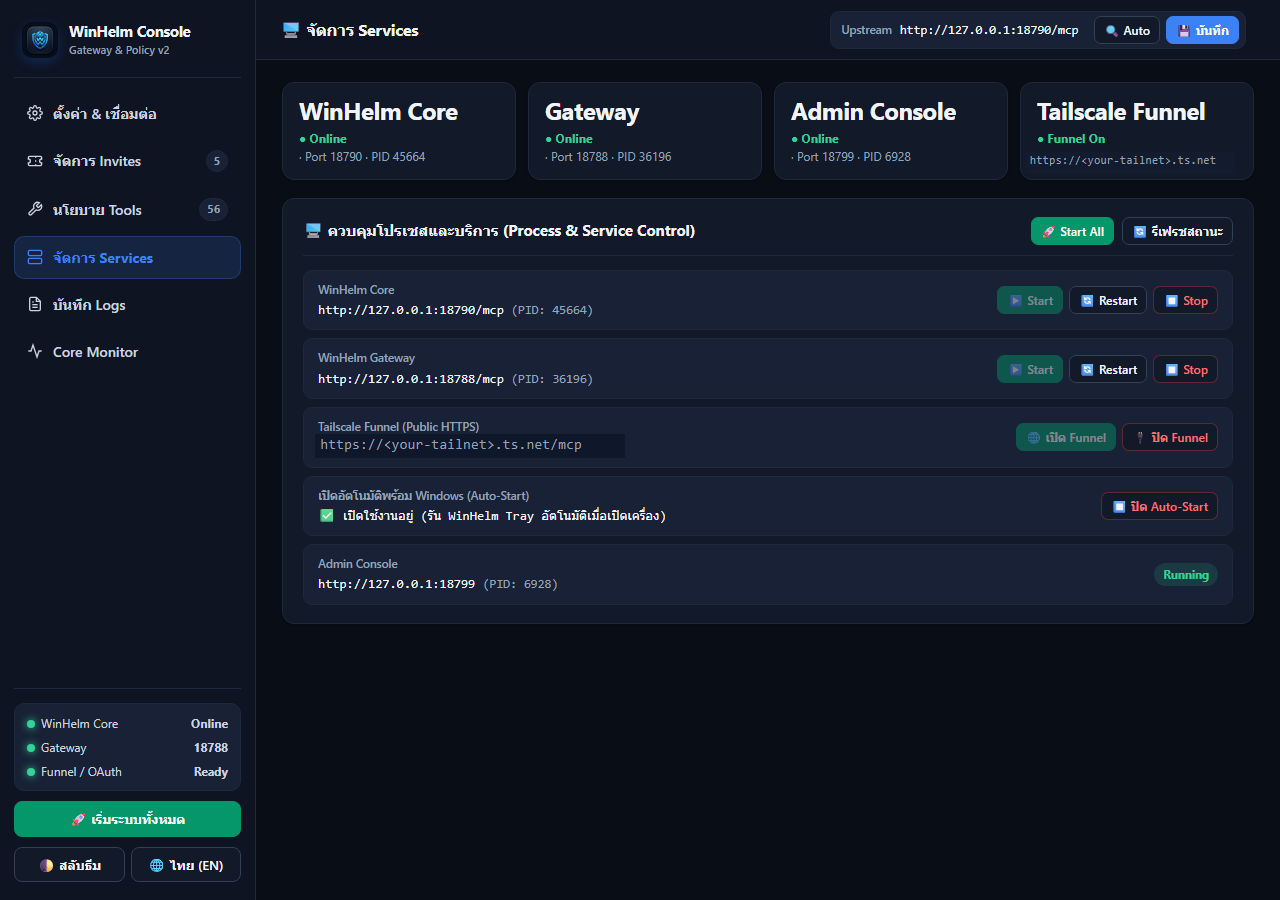
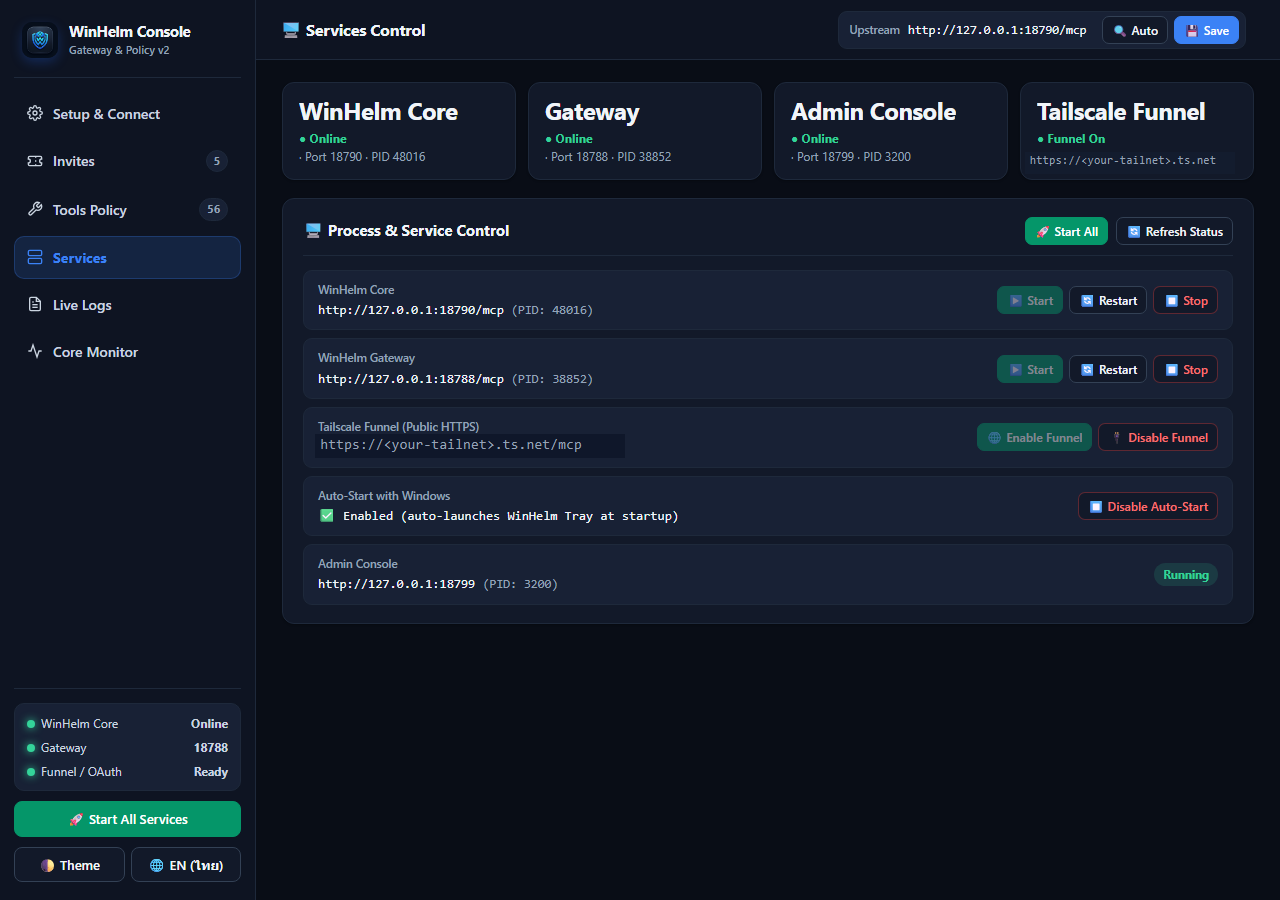
docs: make English default README with EN screenshots and add README.th.md

diff --git a/admin/index.html b/admin/index.html
@@ -2009,7 +2009,8 @@ const EN_TEXT = {
   'ap.approve': '✔ Approve Now'
 };
 
-let LANG = localStorage.getItem('winhelm_lang') === 'en' ? 'en' : 'th';
+const _qLang = new URLSearchParams(location.search).get('lang');
+let LANG = (_qLang === 'en' || _qLang === 'th') ? _qLang : (localStorage.getItem('winhelm_lang') === 'en' ? 'en' : 'th');
 let activeTabId = 'tab-setup';
 const t = (th, en) => (LANG === 'en' ? en : th);
 

diff --git a/README.md b/README.md
@@ -1,125 +1,126 @@
 # WinHelm Unified Desktop Console & Multi-Platform Ingress Gateway
 
-ศูนย์ควบคุมเดสก์ท็อป (**Control Console**), ระบบ **System Tray**, และ **OAuth/MCP Ingress Gateway** สำหรับ **WinHelm MCP Core** (รองรับ **Google Gemini**, **Anthropic Claude**, และ **OpenAI ChatGPT**)
+> 🌐 **Language:** **English** | [🇹🇭 ภาษาไทย](README.th.md)
 
-โปรเจกต์นี้ออกแบบให้แยกส่วนจากแกนหลัก (`winhelm-mcp`) อย่างชัดเจน โดยใช้ Node.js Standard Library 100% (ไร้ external npm dependencies) ทำงานร่วมกับ WinHelm Core ผ่าน Local HTTP/Bearer Token และ Windows DPAPI
+A standalone **Desktop Control Console**, **System Tray** app, and **OAuth 2.1 / MCP Ingress Gateway** for **WinHelm MCP Core** — supporting **Google Gemini**, **Anthropic Claude**, and **OpenAI ChatGPT**.
+
+Built with **100% Node.js Standard Library** (zero external npm dependencies), communicating with WinHelm Core over local HTTP + Bearer Token and securing credentials with Windows DPAPI.
 
 ---
 
-## 🌟 ฟีเจอร์หลัก (Key Features)
+## 🌟 Key Features
 
-1. **⚙ ตั้งค่า & เชื่อมต่อ (Setup & OAuth):**
-   - ซิงค์โดเมนสาธารณะจาก **Tailscale Funnel** อัตโนมัติ (`⚡ ซิงค์ Tailscale`)
-   - สร้างและจัดการ **OAuth Static Clients** (`Client ID` / `Client Secret` เข้ารหัสด้วย Windows DPAPI)
-   - จัดการ **WinHelm Core Bearer Token** (อ่านอัตโนมัติจาก `~/.winhelm/auth-token`, ปุ่ม `⚡ ซิงค์อัตโนมัติ`, หรือกรอก Token เองเมื่อรัน Core ด้วย `--auth`)
-   - **Health Checklist** ตรวจความพร้อมระบบ 8 จุดแบบเรียลไทม์
+1. **⚙ Setup & Connection (`#setup`):**
+   - One-click **Tailscale Funnel** public domain sync (`⚡ Sync Tailscale`).
+   - Create and manage **OAuth Static Clients** (`Client ID` / `Client Secret` encrypted via Windows DPAPI).
+   - Manage **WinHelm Core Bearer Token** (auto-reads `~/.winhelm/auth-token`, `⚡ Auto Sync`, or manual entry when running Core with `--auth`).
+   - Real-time 8-point **System Readiness** checklist.
 
-2. **🎫 จัดการ Invites (`#invites`):**
-   - สร้าง Invite Code พร้อมกำหนดโควตา (Quota) และคัดลอกลง Clipboard ในคลิกเดียว
-   - แก้ไขโควตา, รีเซ็ตการใช้งาน, ปลดการจองค้าง (`Release Stale`), ยกเลิก (`Revoke`), หรือลบถาวร
+2. **🎫 Invites Manager (`#invites`):**
+   - Generate Invite Codes with configurable quotas and one-click clipboard copy.
+   - Edit quotas, reset usage, release stale reservations (`Release Stale`), revoke, or permanently delete.
 
-3. **🛠 นโยบาย Tools — Schema v2 (`#tools`):**
-   - ควบคุมสิทธิ์ **56 Canonical Tools** ของ WinHelm แบบเจาะจงราย Tool (`🟢 Auto` / `🟡 Ask` / `🔴 Off`)
-   - ปุ่ม Quick Presets: `Power (Auto ทั้งหมด)`, `Balanced (Ask คำสั่งอันตราย)`, `Safe (Read-only)`
-   - ตั้งค่า **Terminal Mode**, **Approval Mode** (`smart` / `manual` / `trusted`), และจัดการ **Approved Folders** ได้จากหน้าเดียว
+3. **🛠 Tools Policy — Schema v2 (`#tools`):**
+   - Per-tool access control across **56 Canonical WinHelm Tools** (`🟢 Auto` / `🟡 Ask` / `🔴 Off`).
+   - Quick Presets: `Power (All Auto)`, `Balanced (Ask Risky)`, `Safe (Read-only)`.
+   - Configure **Terminal Mode**, **Approval Mode** (`smart` / `manual` / `trusted`), and **Approved Folders** in one place.
 
-4. **🖥 จัดการ Services & 📜 บันทึก Logs (`#services`, `#logs`):**
-   - สั่ง `Start` / `Stop` / `Restart` แยกสำหรับ **WinHelm Core (`18790`)** และ **Gateway (`18788`)**
-   - หน้า **บันทึก Logs** เต็มจอ (แนวบน-ล่าง `stdout` 2/3 และ `stderr` 1/3) พร้อมล้าง ANSI color codes และ Auto-Refresh
+4. **🖥 Services Control & 📜 Live Logs (`#services`, `#logs`):**
+   - Start / Stop / Restart **WinHelm Core (`18790`)** and **Gateway (`18788`)** independently, plus toggle Tailscale Funnel and Windows Auto-Start.
+   - Full-view **Live Logs** (`stdout` & `stderr`) with ANSI color stripping and auto-refresh.
 
 5. **📊 Core Monitor & Global Approval Popup (`#monitor`):**
-   - แสดง **CPU Load**, **RAM**, **GPU VRAM/Temp**, **Uptime/Sessions**, **Disk Drives (Compact Grid)**, และ **Activity Logs** ของ Core
-   - **Approval Queue + Global Popup:** เมื่อมีคำสั่งติดสิทธิ์ `ask` ระบบจะเด้ง Popup แจ้งเตือนมุมขวาบนทันทีไม่ว่าอยู่แท็บไหน กด `✔ อนุมัติ` หรือ `✕ ปฏิเสธ` ได้จาก Console โดยตรง
+   - Live **CPU Load**, **RAM**, **GPU VRAM/Temp**, **Uptime/Sessions**, **Disk Drives**, and Core **Activity Logs**.
+   - **Approval Queue + Global Popup:** Whenever an `ask`-policy tool is invoked, a notification popup appears at the top-right across all tabs so you can `✔ Approve` or `✕ Deny` immediately.
 
-6. **⚡ Silent System Tray (`WinHelm Tray.lnk`):**
-   - เปิดแอป System Tray ได้โดย **ไม่มีหน้าต่าง PowerShell ค้าง** (ผ่าน `wscript.exe` + `tray\launch-tray.vbs`)
-   - ไอคอนโลโก้ WinHelm พร้อมจุดสถานะที่มุมขวาล่าง (เทา = Stopped, น้ำเงิน = Local, แดง = Public)
-   - รองรับปุ่มสลับภาษา **ไทย / EN** และธีม **สว่าง / มืด** ในหน้า Console
+6. **⚡ Silent System Tray (`WinHelm Tray.lnk`) & Bilingual UI (`EN / TH`):**
+   - Launches cleanly into the Windows System Tray with **no persistent PowerShell window** (via `wscript.exe` + `tray\launch-tray.vbs`).
+   - Built-in **English / Thai (`EN / ไทย`)** toggle and **Light / Dark** theme switcher.
 
 ---
 
-## 📸 ภาพหน้าจอ (Screenshots)
+## 📸 Screenshots
 
-### 1. ตั้งค่า & เชื่อมต่อ (Setup & OAuth Connection)
+### 1. Setup & OAuth Connection
 ![Setup and Connection](docs/picture/set_conn.png)
 
-### 2. จัดการ Invites (Invites Manager)
+### 2. Invites Manager
 ![Invites Manager](docs/picture/invite.png)
 
-### 3. นโยบาย Tools — Schema v2 (Tools Policy)
+### 3. Tools Policy (Schema v2)
 ![Tools Policy](docs/picture/tools.png)
 
-### 4. จัดการ Services & Tailscale Funnel (Services Control)
+### 4. Services Control & Tailscale Funnel
 ![Services Control](docs/picture/services.png)
 
 ---
 
-## 🚀 วิธีเปิดใช้งาน (เครื่องที่ติดตั้งแล้ว)
+## 🚀 Quick Launch (Already Configured)
 
-- **วิธีที่แนะนำ (ผ่าน Tray):** ดับเบิลคลิก **`WinHelm Tray.lnk`** (หรือ `start-tray.cmd`) แล้วคลิกขวาที่ไอคอน WinHelm มุมขวาล่าง Taskbar → **Open Control Console**
-- **เปิดเฉพาะหน้า Console:** รัน `.\start-console.ps1` (เปิดหน้าต่าง Edge App 1280×900 ไร้แถบ URL พร้อม Single-Use Launch Ticket)
-- **เปิดเฉพาะ Gateway / Core:** รัน `.\start-gateway.ps1` / `.\start-core.ps1` หรือกดปุ่ม **`🚀 เริ่มระบบทั้งหมด`** ในหน้า Console
+- **Recommended (via Tray):** Double-click **`WinHelm Tray.lnk`** (or `start-tray.cmd`), then right-click the WinHelm tray icon → **Open Control Console**.
+- **Console Only:** Run `.\start-console.ps1` (opens a 1280×900 Edge App window using a single-use launch ticket).
+- **Gateway / Core Only:** Run `.\start-gateway.ps1` / `.\start-core.ps1`, or click **`🚀 Start All Services`** inside the Console.
 
 ---
 
-## 📦 คู่มือนำไปติดตั้งและทดสอบบนเครื่องอื่น
+## 📦 Installation on a New Machine
 
-### 1. ข้อกำหนดเบื้องต้นของเครื่องปลายทาง
-- **Windows 11 / Windows 10** พร้อม **Microsoft Edge** (ติดตั้งมาในระบบอยู่แล้ว)
+### 1. Prerequisites
+- **Windows 10 / 11** with **Microsoft Edge**
 - **Node.js v20+**
-- **Tailscale** (ติดตั้ง ล็อกอิน และเปิด Funnel ชี้มาที่พอร์ต `18788` เช่น `tailscale funnel --bg 18788`)
-- **WinHelm Core** (`npx -y winhelm-mcp` หรือติดตั้ง global `npm i -g winhelm-mcp` หรือวางโฟลเดอร์ `winhelm-mcp` ไว้ข้างๆ กัน)
+- **Tailscale** (installed, signed in, and Funnel enabled for port `18788`, e.g. `tailscale funnel --bg 18788`)
+- **WinHelm Core** (`npx -y winhelm-mcp`, `npm i -g winhelm-mcp`, or a sibling `../winhelm-mcp` folder)
 
-### 2. ขั้นตอนตั้งค่าครั้งแรกบนเครื่องใหม่ (1 คลิกด้วย `setup.cmd`)
-1. Clone หรือคัดลอกโฟลเดอร์ `winhelm-console-gateway` ไปวางที่ใดก็ได้บนเครื่องใหม่
-2. ดับเบิลคลิก **`setup.cmd`** (สคริปต์จะตรวจเช็ก Node.js, Edge, Tailscale, WinHelm Core, สร้าง `config.json` พร้อมดึงโดเมน Tailscale และสร้าง Shortcut `WinHelm Tray.lnk` ให้ตรงกับโฟลเดอร์ปัจจุบันอัตโนมัติ)
-3. ดับเบิลคลิก **`WinHelm Tray.lnk`** แล้วคลิกขวาที่ไอคอน WinHelm มุมขวาล่าง → **Open Control Console** (`http://127.0.0.1:18789`)
-4. กดปุ่ม **`🚀 เริ่มระบบทั้งหมด`** ที่มุมล่างซ้าย (หรือเปิด **Tailscale Funnel** ในแท็บ **จัดการ Services**):
-   - การรันครั้งแรก WinHelm Core จะสุ่มสร้าง Bearer Token ไว้ที่ `%USERPROFILE%\.winhelm\auth-token` ให้อัตโนมัติ
-   - *หมายเหตุ:* หากคุณรัน WinHelm Core เองจากภายนอกด้วย `--auth <token>` ให้กด **`✏ แก้ไข`** ตรงแถว **WinHelm Bearer Token** เพื่อวาง Token ของคุณ
-5. ในแท็บ **ตั้งค่า & เชื่อมต่อ**:
-   - กด **`⚡ ซิงค์ Tailscale`** (หากยังไม่ได้ซิงค์)
-   - กด **`➕ สร้าง Client`** (เช่น `winhelm-gemini-01`) ระบบจะสร้าง Secret และคัดลอกลง Clipboard ให้
-   - กด **`🎫 สร้าง Invite ด่วน`** เพื่อสร้าง Invite Code สำหรับยืนยันตัวตนครั้งแรก
-6. นำ **MCP Server URL**, **Client ID**, **Client Secret**, และ **Invite Code** ไปเชื่อมต่อกับ AI Platform ที่ต้องการ (ดูขั้นตอนด้านล่าง)
+### 2. First-Run Setup (`setup.cmd`)
+1. Clone or copy `winhelm-console-gateway` to your machine.
+2. Double-click **`setup.cmd`** (verifies Node.js, Edge, Tailscale, and WinHelm Core; initializes `config.json` from `config.example.json` with your Tailscale domain; and creates `WinHelm Tray.lnk`).
+3. Double-click **`WinHelm Tray.lnk`** → right-click the tray icon → **Open Control Console** (`http://127.0.0.1:18789`).
+4. Click **`🚀 Start All Services`** at the bottom-left (and enable **Tailscale Funnel** in **Services** if not active):
+   - On first start, WinHelm Core generates a Bearer Token at `%USERPROFILE%\.winhelm\auth-token`.
+   - *Note:* If you run WinHelm Core externally with `--auth <token>`, click **`✏ Edit`** on **WinHelm Bearer Token** to paste your token.
+5. In **Setup & Connection**:
+   - Click **`⚡ Sync Tailscale`** (if not synced yet).
+   - Click **`➕ New Client`** (e.g., `winhelm-gemini-01`) — the secret is encrypted with DPAPI and copied to your clipboard.
+   - Click **`🎫 Quick Invite`** to generate a registration Invite Code.
+6. Use the **MCP Server URL**, **Client ID**, **Client Secret**, and **Invite Code** to connect your AI platform below.
 
 ---
 
-## 🔌 วิธีเชื่อมต่อ AI Platforms (Gemini / Claude / ChatGPT)
+## 🔌 Connecting AI Platforms (Gemini / Claude / ChatGPT)
 
-> แนะนำให้สร้าง **Client ID แยกตามแพลตฟอร์ม** (เช่น `winhelm-gemini-01`, `winhelm-claude-01`, `winhelm-chatgpt-01`) และเตรียม **Invite Code** ที่ยังไม่ถูกใช้งานไว้ 1 รหัสต่อการเชื่อมต่อ (ระบบรองรับการตรวจจับ callback URL ของทั้ง 3 เจ้าอัตโนมัติ)
+> Recommended: Create a dedicated **Client ID per platform** (e.g., `winhelm-gemini-01`, `winhelm-claude-01`, `winhelm-chatgpt-01`) and keep an unused **Invite Code** ready for each connection. Callback URL patterns for all three platforms are supported automatically.
 
 ### 1. Google Gemini
-1. ไปที่ **Settings → Connected Apps → Add custom app**
-2. วาง **MCP Server URL** (`https://<your-tailscale-host>/mcp`)
-3. เปิด **Additional settings (Show more)** → กรอก **Client ID** และ **Client Secret**
-4. กด **Connect** → กรอก **Invite Code** ในหน้าล็อกอิน WinHelm → กด **Continue** (ระบบจะ redirect กลับให้อัตโนมัติ)
+1. Go to **Settings → Connected Apps → Add custom app**
+2. Paste **MCP Server URL** (`https://<your-tailscale-host>/mcp`)
+3. Expand **Additional settings (Show more)** → enter **Client ID** and **Client Secret**
+4. Click **Connect** → enter the **Invite Code** on the WinHelm authorization page → click **Continue**
 
 ### 2. Anthropic Claude
-1. ไปที่ **Settings → Connectors → Add custom connector**
-2. วาง **MCP Server URL** (`https://<your-tailscale-host>/mcp`)
-3. เปิด **Advanced settings** → กรอก **Client ID** และ **Client Secret**
-4. กด **Add / Connect** → กรอก **Invite Code** → กด **Continue**
+1. Go to **Settings → Connectors → Add custom connector**
+2. Paste **MCP Server URL** (`https://<your-tailscale-host>/mcp`)
+3. Expand **Advanced settings** → enter **Client ID** and **Client Secret**
+4. Click **Add / Connect** → enter the **Invite Code** → click **Continue**
 
 ### 3. OpenAI ChatGPT
-1. ไปที่ **Plugins / Apps → Add custom MCP server**
-2. ตั้งค่าฝั่งซ้าย:
+1. Go to **Plugins / Apps → Add custom MCP server**
+2. Left panel:
    - **Connection:** `Server URL` → `https://<your-tailscale-host>/mcp`
    - **Authentication:** `OAuth`
-3. เปิด **Advanced OAuth settings** ด้านขวา:
+3. Right panel (**Advanced OAuth settings**):
    - **Registration method:** `User-Defined OAuth Client`
-   - **OAuth client ID / OAuth client secret:** กรอกค่าของ Client ที่สร้างใน WinHelm Console
-   - **Token endpoint auth method:** เลือก **`client_secret_post`** (หรือ `client_secret_basic` — *ห้ามเลือก `none`*)
-   - **Scopes (หากต้องระบุ):** ปล่อยว่างไว้ หรือใส่ `winhelm:mcp`
-   - *(ช่อง OAuth endpoints ระบบค้นหาอัตโนมัติจาก `/.well-known/*` ให้เอง)*
-4. ติ๊ก **I understand and want to continue** → กด **Create as a plugin** → กรอก **Invite Code** → กด **Continue** แล้วรอหน้า `Authorization complete` เด้งกลับอัตโนมัติ
+   - **OAuth client ID / OAuth client secret:** from WinHelm Console
+   - **Token endpoint auth method:** **`client_secret_post`** (or `client_secret_basic` — *do not select `none`*)
+   - **Scopes (if prompted):** leave blank or enter `winhelm:mcp`
+   - *(OAuth endpoints are auto-discovered from `/.well-known/*`)*
+4. Check **I understand and want to continue** → click **Create as a plugin** → enter the **Invite Code** → click **Continue**
 
-> **หมายเหตุการตรวจสอบ:** หากต้องการเช็กว่า Gateway เปิดใช้งานอยู่หรือไม่โดยไม่ใช้ Token สามารถทดสอบเรียก `/healthz` (`{"ok":true}`) ส่วน endpoint `/mcp` จะตอบ `401 Unauthorized` เสมอเมื่อไม่มี OAuth Bearer Token
+> **Health check:** `/healthz` returns `{"ok":true}` without auth, while `/mcp` always returns `401 Unauthorized` without a valid OAuth Bearer token.
 
 ---
 
-## 🔒 โครงสร้างความปลอดภัย (Security Model)
-- **Local Admin Isolation:** Admin Console (`18789`) รับการเชื่อมต่อเฉพาะ `127.0.0.1` เท่านั้น ไม่ถูกเผยแพร่ออก Tailscale Funnel
-- **Single-Use Launch Ticket & Strict Cookie:** ป้องกัน Token รั่วไหลผ่าน Command Line ของเบราว์เซอร์
-- **Windows DPAPI:** Client Secret และ Invite Code เข้ารหัสด้วย DPAPI ระดับผู้ใช้
-- **ไฟล์ที่ห้าม Commit ขึ้น Git:** `*.dpapi`, `*.pid`, `*.log`, `config-backups/`, และไฟล์ `config.json` ที่มีโดเมน/ข้อมูลส่วนตัวของเครื่องจริง
+## 🔒 Security Model
+- **Local Admin Isolation:** Admin Console (`18789`) binds strictly to `127.0.0.1` with `Host` and `Origin` validation and is never exposed via Tailscale Funnel.
+- **Single-Use Launch Ticket & Strict Cookie:** Prevents token leakage via browser command-line arguments.
+- **Windows DPAPI:** Client Secrets and Invite Codes are encrypted per Windows user via DPAPI.
+- **Git Hygiene:** `*.dpapi`, `*.pid`, `*.log`, `*.lnk`, `config-backups/`, and `config.json` are excluded by `.gitignore`.

diff --git a/README.th.md b/README.th.md
@@ -1,0 +1,1 @@
+# WinHelm Unified Desktop Console & Multi-Platform Ingress Gateway  ศูนย์ควบคุมเดสก์ท็อป (**Control Console**), ระบบ **System Tray**, และ **OAuth/MCP Ingress Gateway** สำหรับ **WinHelm MCP Core** (รองรับ **Google Gemini**, **Anthropic Claude**, และ **OpenAI ChatGPT**)  โปรเจกต์นี้ออกแบบให้แยกส่วนจากแกนหลัก (`winhelm-mcp`) อย่างชัดเจน โดยใช้ Node.js Standard Library 100% (ไร้ external npm dependencies) ทำงานร่วมกับ WinHelm Core ผ่าน Local HTTP/Bearer Token และ Windows DPAPI  ---  ## 🌟 ฟีเจอร์หลัก (Key Features)  1. **⚙ ตั้งค่า & เชื่อมต่อ (Setup & OAuth):**    - ซิงค์โดเมนสาธารณะจาก **Tailscale Funnel** อัตโนมัติ (`⚡ ซิงค์ Tailscale`)    - สร้างและจัดการ **OAuth Static Clients** (`Client ID` / `Client Secret` เข้ารหัสด้วย Windows DPAPI)    - จัดการ **WinHelm Core Bearer Token** (อ่านอัตโนมัติจาก `~/.winhelm/auth-token`, ปุ่ม `⚡ ซิงค์อัตโนมัติ`, หรือกรอก Token เองเมื่อรัน Core ด้วย `--auth`)    - **Health Checklist** ตรวจความพร้อมระบบ 8 จุดแบบเรียลไทม์  2. **🎫 จัดการ Invites (`#invites`):**    - สร้าง Invite Code พร้อมกำหนดโควตา (Quota) และคัดลอกลง Clipboard ในคลิกเดียว    - แก้ไขโควตา, รีเซ็ตการใช้งาน, ปลดการจองค้าง (`Release Stale`), ยกเลิก (`Revoke`), หรือลบถาวร  3. **🛠 นโยบาย Tools — Schema v2 (`#tools`):**    - ควบคุมสิทธิ์ **56 Canonical Tools** ของ WinHelm แบบเจาะจงราย Tool (`🟢 Auto` / `🟡 Ask` / `🔴 Off`)    - ปุ่ม Quick Presets: `Power (Auto ทั้งหมด)`, `Balanced (Ask คำสั่งอันตราย)`, `Safe (Read-only)`    - ตั้งค่า **Terminal Mode**, **Approval Mode** (`smart` / `manual` / `trusted`), และจัดการ **Approved Folders** ได้จากหน้าเดียว  4. **🖥 จัดการ Services & 📜 บันทึก Logs (`#services`, `#logs`):**    - สั่ง `Start` / `Stop` / `Restart` แยกสำหรับ **WinHelm Core (`18790`)** และ **Gateway (`18788`)**    - หน้า **บันทึก Logs** เต็มจอ (แนวบน-ล่าง `stdout` 2/3 และ `stderr` 1/3) พร้อมล้าง ANSI color codes และ Auto-Refresh  5. **📊 Core Monitor & Global Approval Popup (`#monitor`):**    - แสดง **CPU Load**, **RAM**, **GPU VRAM/Temp**, **Uptime/Sessions**, **Disk Drives (Compact Grid)**, และ **Activity Logs** ของ Core    - **Approval Queue + Global Popup:** เมื่อมีคำสั่งติดสิทธิ์ `ask` ระบบจะเด้ง Popup แจ้งเตือนมุมขวาบนทันทีไม่ว่าอยู่แท็บไหน กด `✔ อนุมัติ` หรือ `✕ ปฏิเสธ` ได้จาก Console โดยตรง  6. **⚡ Silent System Tray (`WinHelm Tray.lnk`):**    - เปิดแอป System Tray ได้โดย **ไม่มีหน้าต่าง PowerShell ค้าง** (ผ่าน `wscript.exe` + `tray\launch-tray.vbs`)    - ไอคอนโลโก้ WinHelm พร้อมจุดสถานะที่มุมขวาล่าง (เทา = Stopped, น้ำเงิน = Local, แดง = Public)    - รองรับปุ่มสลับภาษา **ไทย / EN** และธีม **สว่าง / มืด** ในหน้า Console  ---  ## 📸 ภาพหน้าจอ (Screenshots)  ### 1. ตั้งค่า & เชื่อมต่อ (Setup & OAuth Connection) ![Setup and Connection](docs/picture/set_conn.png)  ### 2. จัดการ Invites (Invites Manager) ![Invites Manager](docs/picture/invite.png)  ### 3. นโยบาย Tools — Schema v2 (Tools Policy) ![Tools Policy](docs/picture/tools.png)  ### 4. จัดการ Services & Tailscale Funnel (Services Control) ![Services Control](docs/picture/services.png)  ---  ## 🚀 วิธีเปิดใช้งาน (เครื่องที่ติดตั้งแล้ว)  - **วิธีที่แนะนำ (ผ่าน Tray):** ดับเบิลคลิก **`WinHelm Tray.lnk`** (หรือ `start-tray.cmd`) แล้วคลิกขวาที่ไอคอน WinHelm มุมขวาล่าง Taskbar → **Open Control Console** - **เปิดเฉพาะหน้า Console:** รัน `.\start-console.ps1` (เปิดหน้าต่าง Edge App 1280×900 ไร้แถบ URL พร้อม Single-Use Launch Ticket) - **เปิดเฉพาะ Gateway / Core:** รัน `.\start-gateway.ps1` / `.\start-core.ps1` หรือกดปุ่ม **`🚀 เริ่มระบบทั้งหมด`** ในหน้า Console  ---  ## 📦 คู่มือนำไปติดตั้งและทดสอบบนเครื่องอื่น  ### 1. ข้อกำหนดเบื้องต้นของเครื่องปลายทาง - **Windows 11 / Windows 10** พร้อม **Microsoft Edge** (ติดตั้งมาในระบบอยู่แล้ว) - **Node.js v20+** - **Tailscale** (ติดตั้ง ล็อกอิน และเปิด Funnel ชี้มาที่พอร์ต `18788` เช่น `tailscale funnel --bg 18788`) - **WinHelm Core** (`npx -y winhelm-mcp` หรือติดตั้ง global `npm i -g winhelm-mcp` หรือวางโฟลเดอร์ `winhelm-mcp` ไว้ข้างๆ กัน)  ### 2. ขั้นตอนตั้งค่าครั้งแรกบนเครื่องใหม่ (1 คลิกด้วย `setup.cmd`) 1. Clone หรือคัดลอกโฟลเดอร์ `winhelm-console-gateway` ไปวางที่ใดก็ได้บนเครื่องใหม่ 2. ดับเบิลคลิก **`setup.cmd`** (สคริปต์จะตรวจเช็ก Node.js, Edge, Tailscale, WinHelm Core, สร้าง `config.json` พร้อมดึงโดเมน Tailscale และสร้าง Shortcut `WinHelm Tray.lnk` ให้ตรงกับโฟลเดอร์ปัจจุบันอัตโนมัติ) 3. ดับเบิลคลิก **`WinHelm Tray.lnk`** แล้วคลิกขวาที่ไอคอน WinHelm มุมขวาล่าง → **Open Control Console** (`http://127.0.0.1:18789`) 4. กดปุ่ม **`🚀 เริ่มระบบทั้งหมด`** ที่มุมล่างซ้าย (หรือเปิด **Tailscale Funnel** ในแท็บ **จัดการ Services**):    - การรันครั้งแรก WinHelm Core จะสุ่มสร้าง Bearer Token ไว้ที่ `%USERPROFILE%\.winhelm\auth-token` ให้อัตโนมัติ    - *หมายเหตุ:* หากคุณรัน WinHelm Core เองจากภายนอกด้วย `--auth <token>` ให้กด **`✏ แก้ไข`** ตรงแถว **WinHelm Bearer Token** เพื่อวาง Token ของคุณ 5. ในแท็บ **ตั้งค่า & เชื่อมต่อ**:    - กด **`⚡ ซิงค์ Tailscale`** (หากยังไม่ได้ซิงค์)    - กด **`➕ สร้าง Client`** (เช่น `winhelm-gemini-01`) ระบบจะสร้าง Secret และคัดลอกลง Clipboard ให้    - กด **`🎫 สร้าง Invite ด่วน`** เพื่อสร้าง Invite Code สำหรับยืนยันตัวตนครั้งแรก 6. นำ **MCP Server URL**, **Client ID**, **Client Secret**, และ **Invite Code** ไปเชื่อมต่อกับ AI Platform ที่ต้องการ (ดูขั้นตอนด้านล่าง)  ---  ## 🔌 วิธีเชื่อมต่อ AI Platforms (Gemini / Claude / ChatGPT)  > แนะนำให้สร้าง **Client ID แยกตามแพลตฟอร์ม** (เช่น `winhelm-gemini-01`, `winhelm-claude-01`, `winhelm-chatgpt-01`) และเตรียม **Invite Code** ที่ยังไม่ถูกใช้งานไว้ 1 รหัสต่อการเชื่อมต่อ (ระบบรองรับการตรวจจับ callback URL ของทั้ง 3 เจ้าอัตโนมัติ)  ### 1. Google Gemini 1. ไปที่ **Settings → Connected Apps → Add custom app** 2. วาง **MCP Server URL** (`https://<your-tailscale-host>/mcp`) 3. เปิด **Additional settings (Show more)** → กรอก **Client ID** และ **Client Secret** 4. กด **Connect** → กรอก **Invite Code** ในหน้าล็อกอิน WinHelm → กด **Continue** (ระบบจะ redirect กลับให้อัตโนมัติ)  ### 2. Anthropic Claude 1. ไปที่ **Settings → Connectors → Add custom connector** 2. วาง **MCP Server URL** (`https://<your-tailscale-host>/mcp`) 3. เปิด **Advanced settings** → กรอก **Client ID** และ **Client Secret** 4. กด **Add / Connect** → กรอก **Invite Code** → กด **Continue**  ### 3. OpenAI ChatGPT 1. ไปที่ **Plugins / Apps → Add custom MCP server** 2. ตั้งค่าฝั่งซ้าย:    - **Connection:** `Server URL` → `https://<your-tailscale-host>/mcp`    - **Authentication:** `OAuth` 3. เปิด **Advanced OAuth settings** ด้านขวา:    - **Registration method:** `User-Defined OAuth Client`    - **OAuth client ID / OAuth client secret:** กรอกค่าของ Client ที่สร้างใน WinHelm Console    - **Token endpoint auth method:** เลือก **`client_secret_post`** (หรือ `client_secret_basic` — *ห้ามเลือก `none`*)    - **Scopes (หากต้องระบุ):** ปล่อยว่างไว้ หรือใส่ `winhelm:mcp`    - *(ช่อง OAuth endpoints ระบบค้นหาอัตโนมัติจาก `/.well-known/*` ให้เอง)* 4. ติ๊ก **I understand and want to continue** → กด **Create as a plugin** → กรอก **Invite Code** → กด **Continue** แล้วรอหน้า `Authorization complete` เด้งกลับอัตโนมัติ  > **หมายเหตุการตรวจสอบ:** หากต้องการเช็กว่า Gateway เปิดใช้งานอยู่หรือไม่โดยไม่ใช้ Token สามารถทดสอบเรียก `/healthz` (`{"ok":true}`) ส่วน endpoint `/mcp` จะตอบ `401 Unauthorized` เสมอเมื่อไม่มี OAuth Bearer Token  ---  ## 🔒 โครงสร้างความปลอดภัย (Security Model) - **Local Admin Isolation:** Admin Console (`18789`) รับการเชื่อมต่อเฉพาะ `127.0.0.1` เท่านั้น ไม่ถูกเผยแพร่ออก Tailscale Funnel - **Single-Use Launch Ticket & Strict Cookie:** ป้องกัน Token รั่วไหลผ่าน Command Line ของเบราว์เซอร์ - **Windows DPAPI:** Client Secret และ Invite Code เข้ารหัสด้วย DPAPI ระดับผู้ใช้ - **ไฟล์ที่ห้าม Commit ขึ้น Git:** `*.dpapi`, `*.pid`, `*.log`, `config-backups/`, และไฟล์ `config.json` ที่มีโดเมน/ข้อมูลส่วนตัวของเครื่องจริง
